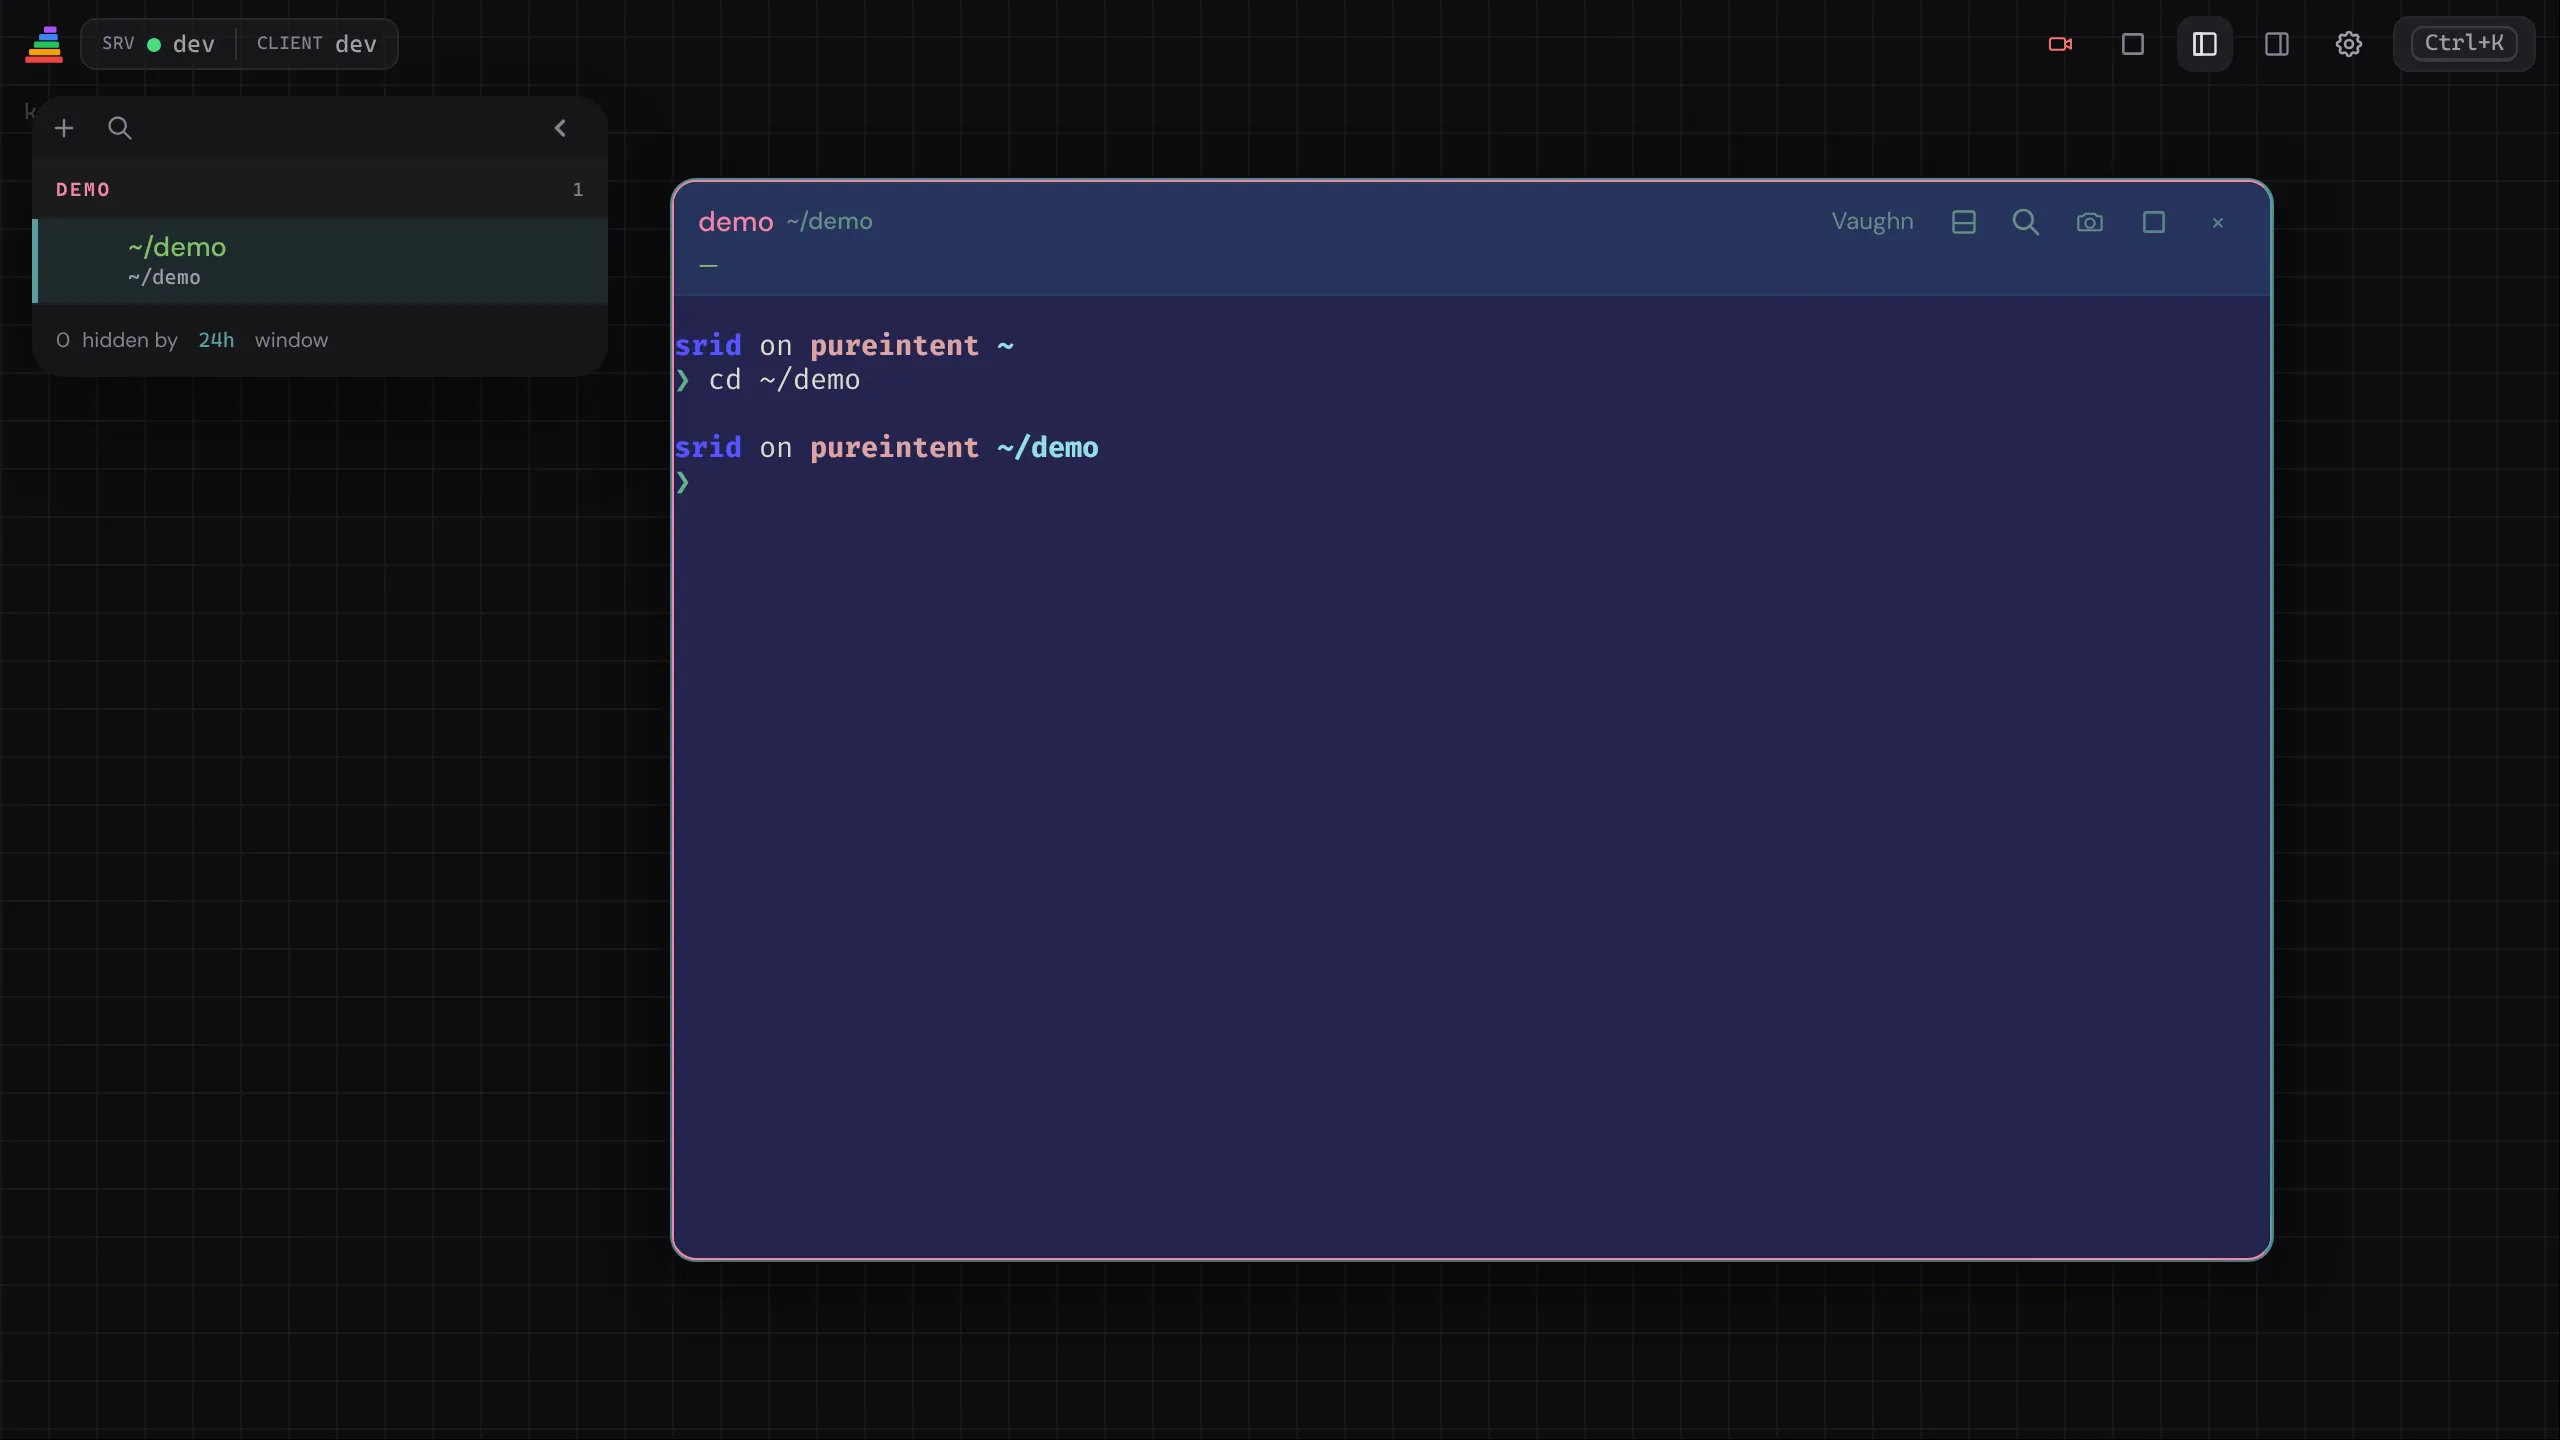
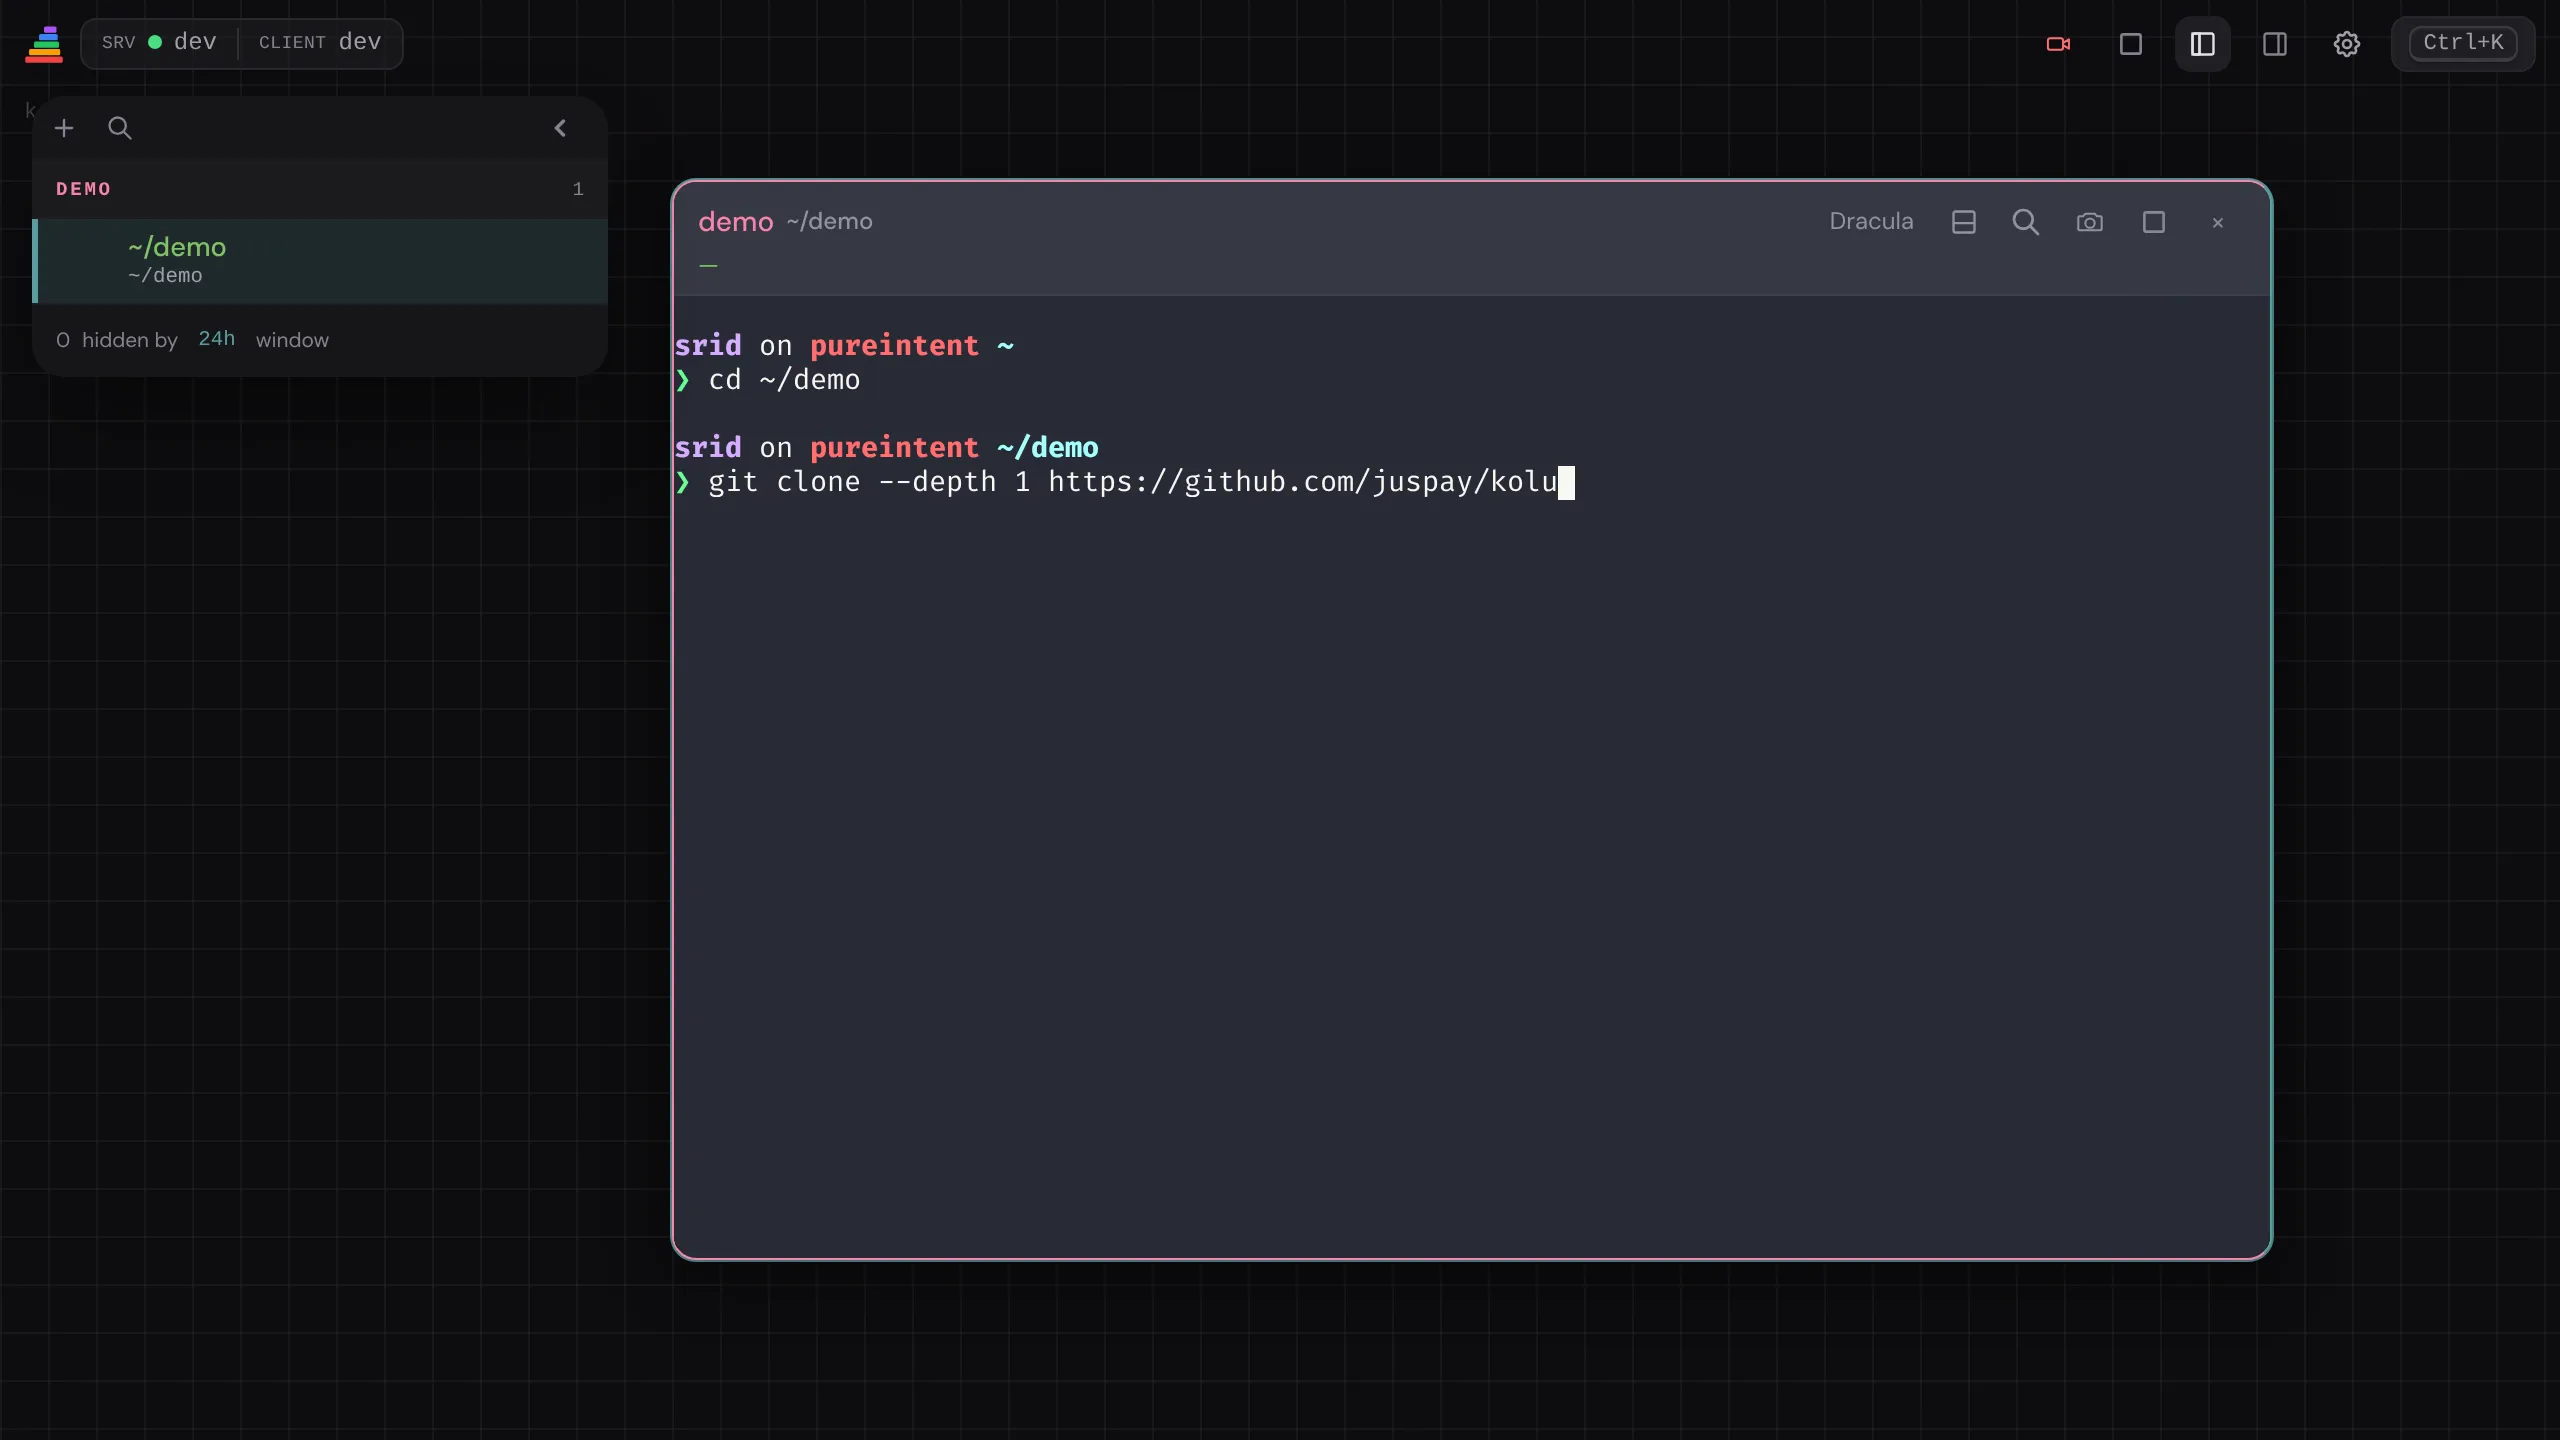
feat(screencast): distinct predefined theme per clip
Each clip was opening on Vaughn; give each its own predefined (reproducible)
terminal theme so the three read as visually different:
- new-terminal-demo → Dracula (purple)
- dock-alert-demo   → Vaughn (T1) + Catppuccin Latte (T2) — already distinct
- code-review-demo  → Nord (blue-grey)

Re-captured new-terminal-demo + code-review-demo; both pass. README per-recording
table gains a Theme column.

diff --git a/packages/tests/screencast/recordings/code-review-demo.recording.ts b/packages/tests/screencast/recordings/code-review-demo.recording.ts
@@ -48,7 +48,7 @@ function ensureClone(repo: { url: string; dir: string }): void {
 export const recording: Recording = {
   name: "code-review-demo",
   chrome: "app",
-  theme: "Vaughn",
+  theme: "Nord", // distinct per recording (new-terminal=Dracula, dock-alert=Vaughn/Latte)
   display: { hideRightPanel: true, hideMinimap: true }, // panel starts collapsed; we open it on camera
   viewport: { width: 1600, height: 900 },
   // Payoff is the selected source + comment composer; sample it near the end.
@@ -58,7 +58,7 @@ export const recording: Recording = {
 
     // A terminal in kolu — the Code tab browses the active terminal's repo.
     await clearCanvas(world, 800);
-    await createTerminalByClick(world, "Vaughn");
+    await createTerminalByClick(world, "Nord");
     await pause(world, 400);
     await world.terminalRun("cd ~/demo/kolu");
     await pause(world, 1000); // let the cwd/repo register for the Code tab

diff --git a/packages/tests/screencast/recordings/new-terminal-demo.recording.ts b/packages/tests/screencast/recordings/new-terminal-demo.recording.ts
@@ -30,7 +30,7 @@ const OWNERSHIP_MARKER = path.join(CLONE_PATH, ".kolu-demo-fixture");
 export const recording: Recording = {
   name: "new-terminal-demo",
   chrome: "app",
-  theme: "Vaughn",
+  theme: "Dracula", // distinct per recording (dock-alert=Vaughn/Latte, code-review=Nord)
   display: { hideRightPanel: true, hideMinimap: true },
   async drive(world) {
     // Idempotent fixture: a fresh ~/demo/kolu each run (the terminal's $HOME is

diff --git a/packages/tests/screencast/README.md b/packages/tests/screencast/README.md
@@ -48,11 +48,14 @@ by the recipe — the top-level flake devShells are untouched.
 **Per recording** (clip duration drives the file sizes; measured, expect ±a few
 seconds since the agent's answer is live):
 
-| Recording | Clip | mp4 (H.264) | webm (VP9) | webp poster | Embedded on |
-| --- | --- | --- | --- | --- | --- |
-| `new-terminal-demo` | ~32s | ~2.4 MB | ~1.4 MB | ~29 KB | `/welcome` §02 |
-| `dock-alert-demo` | ~29s | ~2.5 MB | ~1.7 MB | ~0.13 MB | `/` (home hero) |
-| `code-review-demo` | ~15s | ~1.0 MB | ~0.7 MB | ~0.11 MB | `/welcome` §03 |
+Each clip pins a **distinct predefined terminal theme** (reproducible — a name
+from `packages/terminal-themes`), so the three look visually different.
+
+| Recording | Theme | Clip | mp4 (H.264) | webm (VP9) | webp poster | Embedded on |
+| --- | --- | --- | --- | --- | --- | --- |
+| `new-terminal-demo` | Dracula | ~28s | ~2.0 MB | ~1.4 MB | ~29 KB | `/welcome` §02 |
+| `dock-alert-demo` | Vaughn + Catppuccin Latte | ~29s | ~2.5 MB | ~1.7 MB | ~0.13 MB | `/` (home hero) |
+| `code-review-demo` | Nord | ~15s | ~0.9 MB | ~0.7 MB | ~0.11 MB | `/welcome` §03 |
 
 `dock-alert-demo` is the richest clip: it opens on an empty canvas, **clicks the
 "+"** to create terminals (every on-camera click is telegraphed with a coral